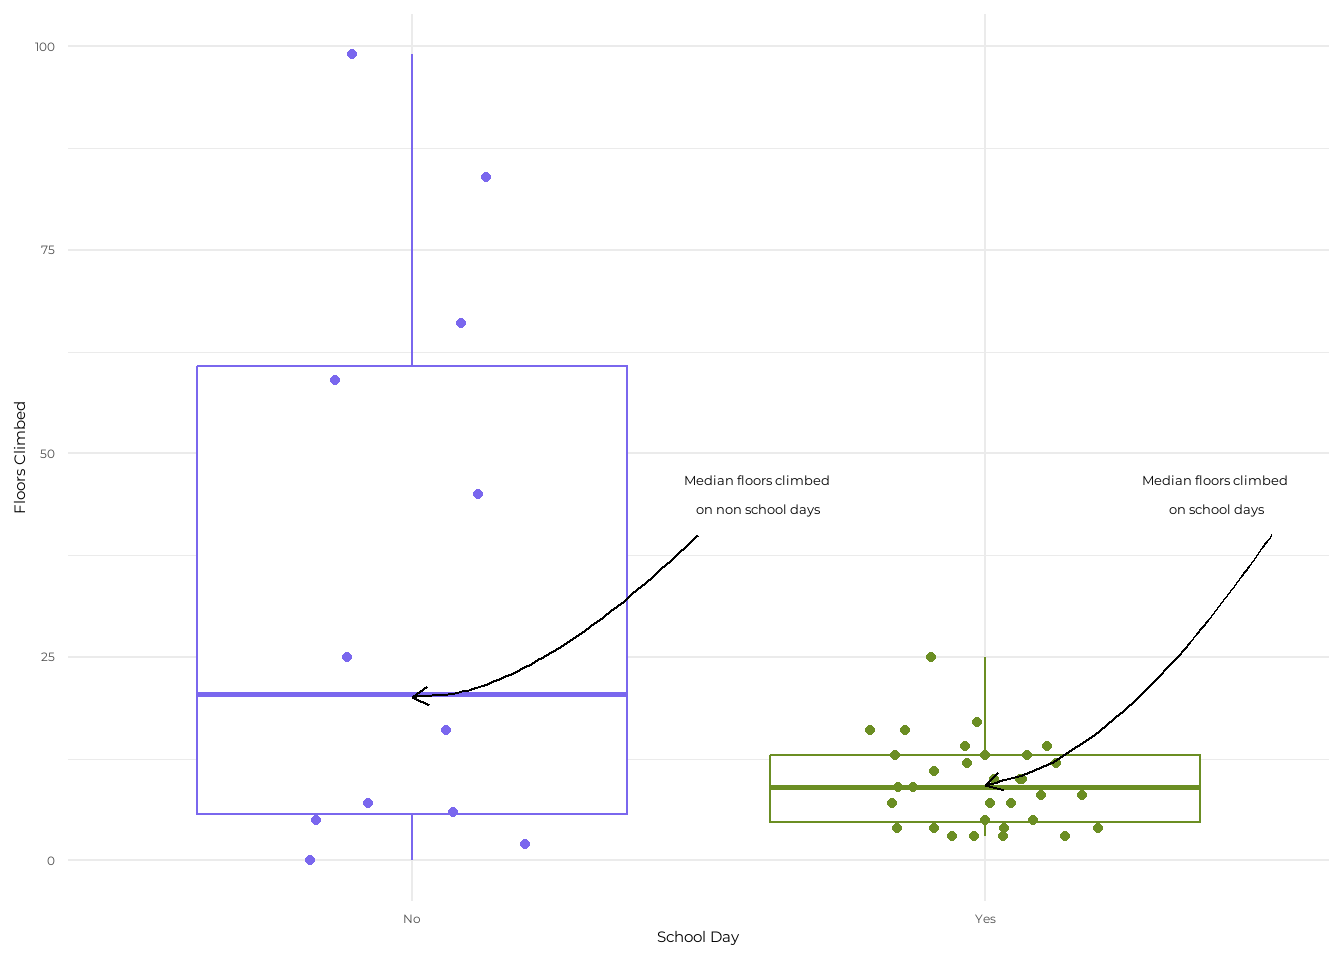
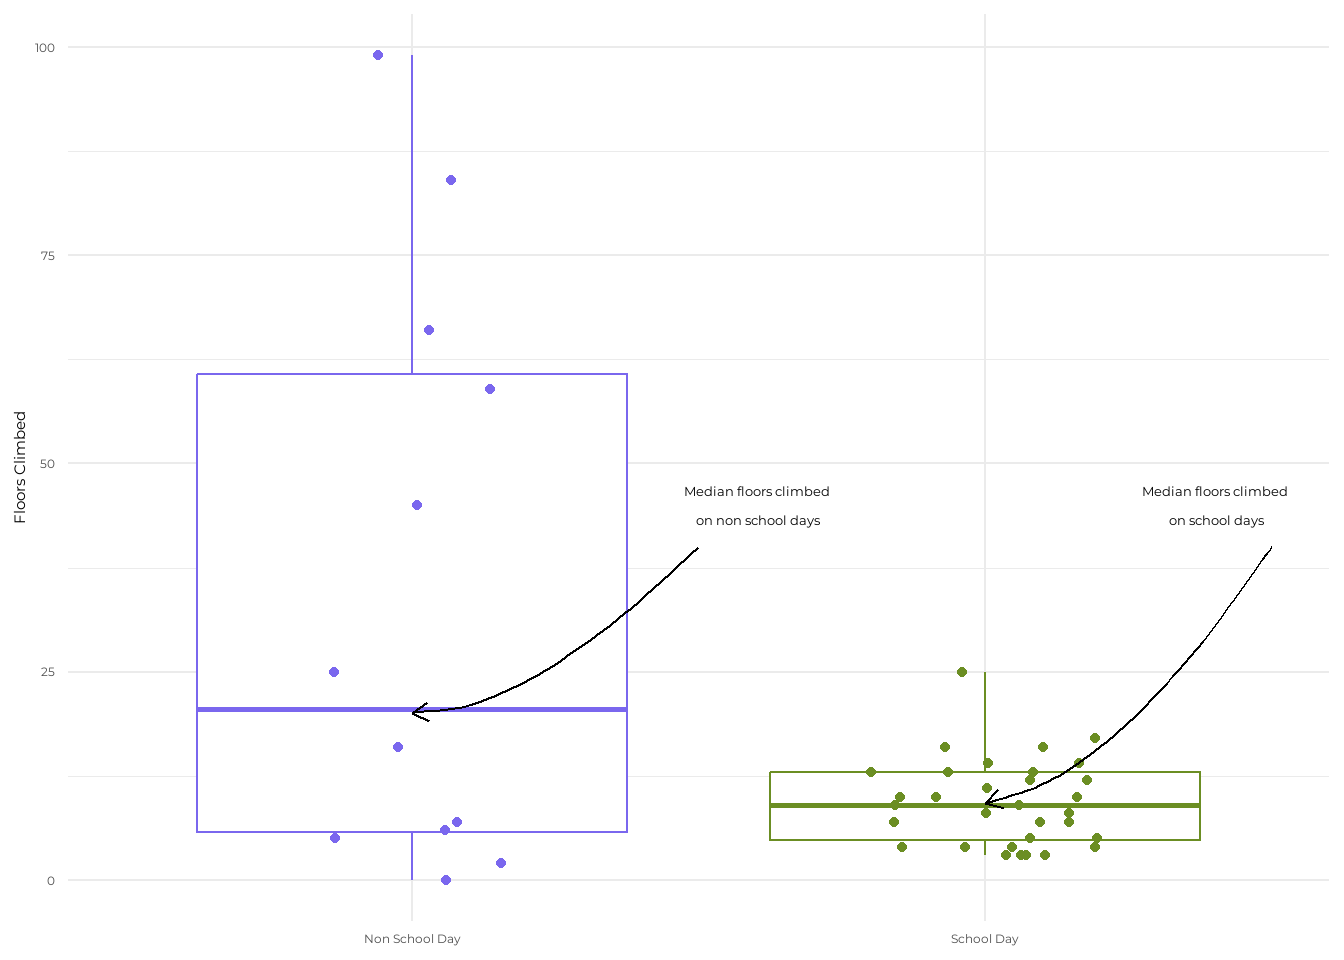
Updating boxplot and ridgeline plot

diff --git a/advanceddatavisualization.html b/advanceddatavisualization.html
@@ -164,7 +164,7 @@ pre > code.sourceCode > span > a:first-child::before { text-decoration: underlin
 <span id="cb3-7"><a href="#cb3-7" aria-hidden="true" tabindex="-1"></a>           <span class="at">color =</span> school_day)) <span class="sc">+</span> <span class="co"># coloring based on school day</span></span>
 <span id="cb3-8"><a href="#cb3-8" aria-hidden="true" tabindex="-1"></a>  <span class="fu">geom_boxplot</span>() <span class="sc">+</span> <span class="co"># creating a boxplot</span></span>
 <span id="cb3-9"><a href="#cb3-9" aria-hidden="true" tabindex="-1"></a>  <span class="fu">geom_jitter</span>(<span class="at">width =</span> <span class="fl">0.2</span>, <span class="at">height =</span> <span class="dv">0</span>) <span class="sc">+</span> <span class="co"># horizontal jitter to prevent overlapping points</span></span>
-<span id="cb3-10"><a href="#cb3-10" aria-hidden="true" tabindex="-1"></a>  <span class="fu">labs</span>(<span class="at">x =</span> <span class="st">"School Day"</span>, <span class="co"># labeling x axis</span></span>
+<span id="cb3-10"><a href="#cb3-10" aria-hidden="true" tabindex="-1"></a>  <span class="fu">labs</span>(<span class="at">x =</span> <span class="cn">NULL</span>, <span class="co"># labeling x axis</span></span>
 <span id="cb3-11"><a href="#cb3-11" aria-hidden="true" tabindex="-1"></a>       <span class="at">y =</span> <span class="st">"Floors Climbed"</span>) <span class="sc">+</span> <span class="co"># labeling y axis</span></span>
 <span id="cb3-12"><a href="#cb3-12" aria-hidden="true" tabindex="-1"></a>  <span class="fu">theme_minimal</span>(<span class="at">base_family =</span> <span class="st">"montserrat"</span>) <span class="sc">+</span>  <span class="co"># minimal theme and using custom font</span></span>
 <span id="cb3-13"><a href="#cb3-13" aria-hidden="true" tabindex="-1"></a>  <span class="fu">theme</span>(<span class="at">legend.position =</span> <span class="st">"none"</span>) <span class="sc">+</span> <span class="co"># removing legend</span></span>
@@ -193,7 +193,8 @@ pre > code.sourceCode > span > a:first-child::before { text-decoration: underlin
 <span id="cb3-36"><a href="#cb3-36" aria-hidden="true" tabindex="-1"></a>  <span class="fu">scale_color_manual</span>(<span class="at">values =</span> <span class="fu">c</span>(</span>
 <span id="cb3-37"><a href="#cb3-37" aria-hidden="true" tabindex="-1"></a>    <span class="st">"Yes"</span> <span class="ot">=</span> <span class="st">"olivedrab"</span>, <span class="co"># manually setting color for yes value</span></span>
 <span id="cb3-38"><a href="#cb3-38" aria-hidden="true" tabindex="-1"></a>    <span class="st">"No"</span> <span class="ot">=</span> <span class="st">"slateblue2"</span> <span class="co"># manually setting color for no value</span></span>
-<span id="cb3-39"><a href="#cb3-39" aria-hidden="true" tabindex="-1"></a>  ))</span></code><button title="Copy to Clipboard" class="code-copy-button"><i class="bi"></i></button></pre></div>
+<span id="cb3-39"><a href="#cb3-39" aria-hidden="true" tabindex="-1"></a>  )) <span class="sc">+</span></span>
+<span id="cb3-40"><a href="#cb3-40" aria-hidden="true" tabindex="-1"></a>  <span class="fu">scale_x_discrete</span>(<span class="at">labels =</span> <span class="fu">c</span>(<span class="st">"No"</span> <span class="ot">=</span> <span class="st">"Non School Day"</span>, <span class="st">"Yes"</span> <span class="ot">=</span> <span class="st">"School Day"</span>))</span></code><button title="Copy to Clipboard" class="code-copy-button"><i class="bi"></i></button></pre></div>
 <div class="cell-output-display">
 <div>
 <figure class="figure">
@@ -213,7 +214,7 @@ pre > code.sourceCode > span > a:first-child::before { text-decoration: underlin
 <span id="cb4-5"><a href="#cb4-5" aria-hidden="true" tabindex="-1"></a></span>
 <span id="cb4-6"><a href="#cb4-6" aria-hidden="true" tabindex="-1"></a><span class="fu">ggplot</span>(personaldata_clean, <span class="fu">aes</span>(<span class="at">x =</span> floors_climbed, <span class="at">y =</span> school_day, <span class="at">fill =</span> school_day)) <span class="sc">+</span> <span class="co"># choosing data frame and assigning axis values</span></span>
 <span id="cb4-7"><a href="#cb4-7" aria-hidden="true" tabindex="-1"></a>  <span class="fu">geom_density_ridges</span>(<span class="at">scale =</span> <span class="dv">1</span>, <span class="at">alpha =</span> <span class="fl">0.7</span>) <span class="sc">+</span> <span class="co"># adding density ridges</span></span>
-<span id="cb4-8"><a href="#cb4-8" aria-hidden="true" tabindex="-1"></a>  <span class="fu">labs</span>(<span class="at">x =</span> <span class="st">"Floors Climbed"</span>, <span class="at">y =</span> <span class="st">"School Day"</span>) <span class="sc">+</span> <span class="co"># adding axis labels</span></span>
+<span id="cb4-8"><a href="#cb4-8" aria-hidden="true" tabindex="-1"></a>  <span class="fu">labs</span>(<span class="at">x =</span> <span class="st">"Floors Climbed"</span>, <span class="at">y =</span> <span class="cn">NULL</span>) <span class="sc">+</span> <span class="co"># adding axis labels</span></span>
 <span id="cb4-9"><a href="#cb4-9" aria-hidden="true" tabindex="-1"></a>  <span class="fu">theme_minimal</span>(<span class="at">base_family =</span> <span class="st">"montserrat"</span>) <span class="sc">+</span> <span class="co"># adding a minimalist theme</span></span>
 <span id="cb4-10"><a href="#cb4-10" aria-hidden="true" tabindex="-1"></a>  <span class="fu">theme</span>(<span class="at">legend.position =</span> <span class="st">"none"</span>) <span class="sc">+</span> <span class="co"># removing the legend</span></span>
 <span id="cb4-11"><a href="#cb4-11" aria-hidden="true" tabindex="-1"></a>  <span class="fu">geom_curve</span>(<span class="at">x =</span> <span class="dv">28</span>, <span class="at">y =</span> <span class="fl">2.5</span>, </span>
@@ -240,7 +241,8 @@ pre > code.sourceCode > span > a:first-child::before { text-decoration: underlin
 <span id="cb4-32"><a href="#cb4-32" aria-hidden="true" tabindex="-1"></a>             <span class="at">color =</span> <span class="st">"black"</span>) <span class="sc">+</span> <span class="co"># color of font for label 2</span></span>
 <span id="cb4-33"><a href="#cb4-33" aria-hidden="true" tabindex="-1"></a>  <span class="fu">scale_fill_manual</span>(<span class="at">values =</span> <span class="fu">c</span>(</span>
 <span id="cb4-34"><a href="#cb4-34" aria-hidden="true" tabindex="-1"></a>  <span class="st">"Yes"</span> <span class="ot">=</span> <span class="st">"olivedrab"</span>, <span class="co"># manually setting color for yes value   </span></span>
-<span id="cb4-35"><a href="#cb4-35" aria-hidden="true" tabindex="-1"></a>  <span class="st">"No"</span> <span class="ot">=</span> <span class="st">"slateblue2"</span>)) <span class="co"># manually setting color for no value</span></span></code><button title="Copy to Clipboard" class="code-copy-button"><i class="bi"></i></button></pre></div>
+<span id="cb4-35"><a href="#cb4-35" aria-hidden="true" tabindex="-1"></a>  <span class="st">"No"</span> <span class="ot">=</span> <span class="st">"slateblue2"</span>)) <span class="sc">+</span> <span class="co"># manually setting color for no value</span></span>
+<span id="cb4-36"><a href="#cb4-36" aria-hidden="true" tabindex="-1"></a>  <span class="fu">scale_y_discrete</span>(<span class="at">labels =</span> <span class="fu">c</span>(<span class="st">"No"</span> <span class="ot">=</span> <span class="st">"Non School Day"</span>, <span class="st">"Yes"</span> <span class="ot">=</span> <span class="st">"School Day"</span>))</span></code><button title="Copy to Clipboard" class="code-copy-button"><i class="bi"></i></button></pre></div>
 <div class="cell-output-display">
 <div>
 <figure class="figure">
